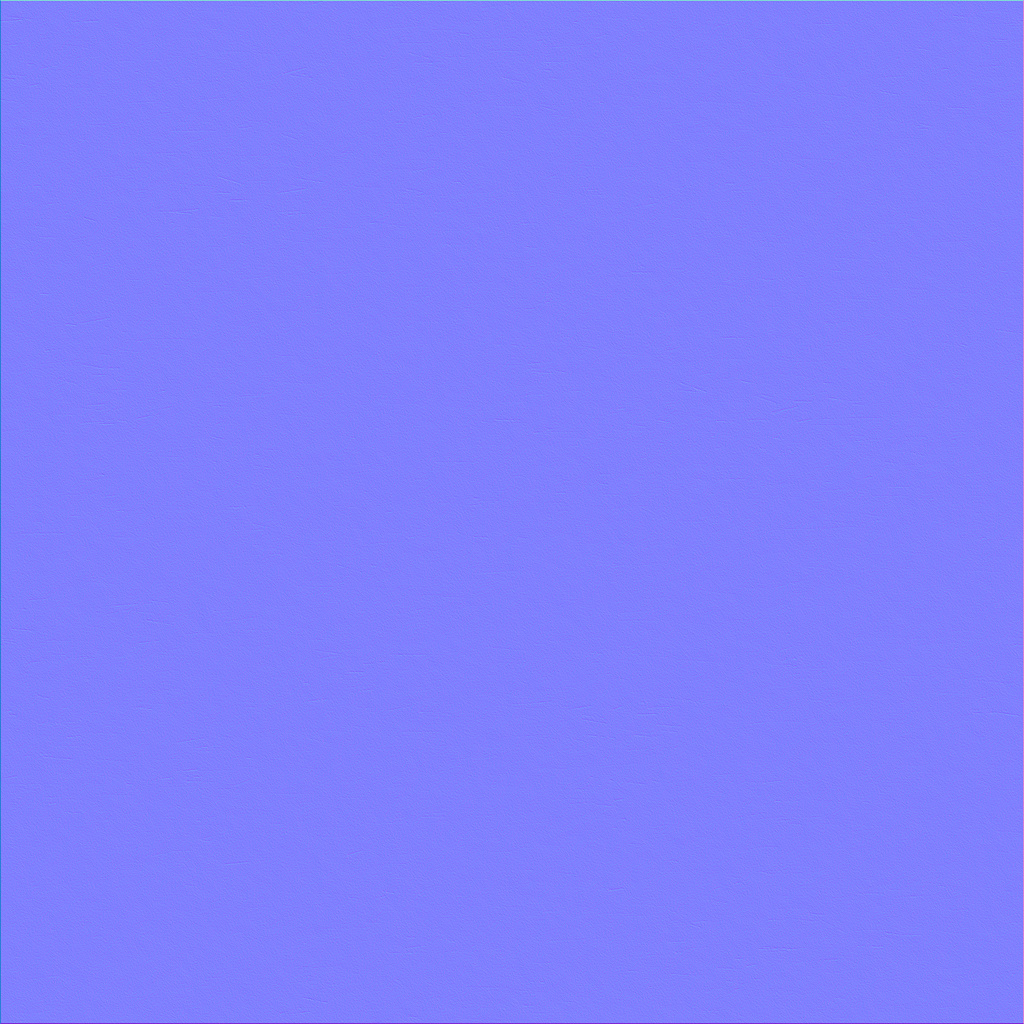
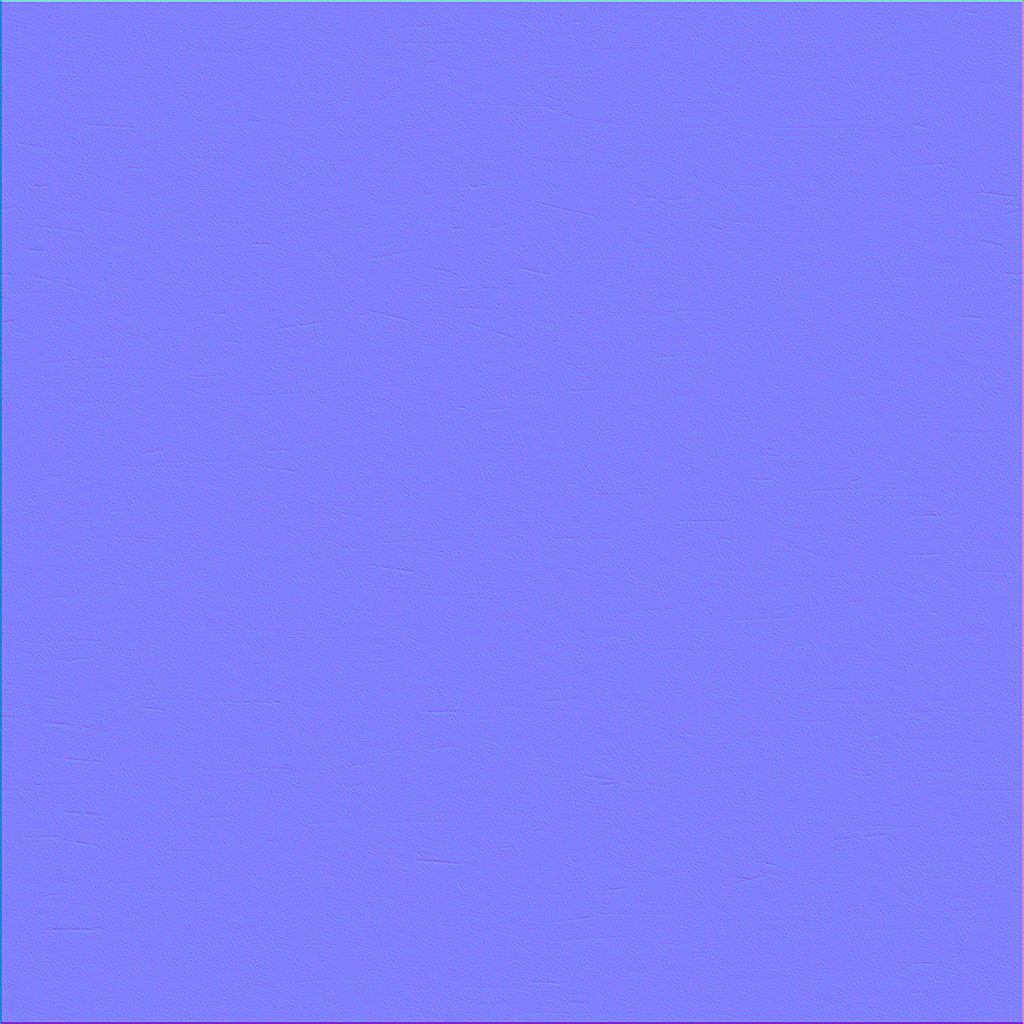
stadium: the decks' plate in 16 m tiles as TMNF's (M11-2)
TMNF tiles its deck plate every 16 m (UVs 0-2 over a block, a dark seam at
the texture's edge): a seam across each block's middle both ways. Ours tiled
32 m. The plate redrawn as a 16 m tile.

Claude-Session: https://claude.ai/code/session_01CoCjs3F2Nw6StPmuE9yD2C

diff --git a/stadium/tools/texgen/decks.py b/stadium/tools/texgen/decks.py
@@ -37,8 +37,9 @@ def lines(w, h, seed, count, lmin, lmax, angle_sd, width=1, ss=2):
     return np.asarray(img, np.float32) / 255.0
 
 
-def platform_plate(name='platform_plate', ppm=64, size_m=32.0, seed=251, base=(170, 169, 166)):
-    """The decks' steel plate over one block (32 m; world-mapped, so its edge is the blocks' seam):
+def platform_plate(name='platform_plate', ppm=64, size_m=16.0, seed=251, base=(170, 169, 166)):
+    """The decks' steel plate, a tile 16 m square as TMNF's (world-mapped, so its edges are the
+    blocks' seams and a seam across each block's middle both ways):
     light grey with soft mottling, rubber smears and scratches along x (TMNF's deck reads like a
     worn floor that cars slide across), a few dark spots, the seam a fine groove with a bright lip."""
     w = h = int(size_m * ppm)
@@ -48,8 +49,10 @@ def platform_plate(name='platform_plate', ppm=64, size_m=32.0, seed=251, base=(1
     fine = fbm(w, h, seed + 2, beta=0.5, lo=200.0)
     # smears: noise stretched along x, kept where it is strong
     smear = smoothstep(0.9, 2.4, blur_xy(fbm(w, h, seed + 3, beta=1.2, lo=6.0), 60.0, 3.0) * 4.0)
-    scratch = lines(w, h, seed + 4, 900, 10.0, 90.0, 0.06)
-    scratch_dark = lines(w, h, seed + 5, 1400, 4.0, 60.0, 0.15, width=2) * smoothstep(0.0, 1.2, fbm(w, h, seed + 6, beta=2.2, lo=2.0))
+    # (as many per m2 as over the old 32 m tile)
+    k = (size_m / 32.0) ** 2
+    scratch = lines(w, h, seed + 4, int(900 * k), 10.0, 90.0, 0.06)
+    scratch_dark = lines(w, h, seed + 5, int(1400 * k), 4.0, 60.0, 0.15, width=2) * smoothstep(0.0, 1.2, fbm(w, h, seed + 6, beta=2.2, lo=2.0))
     spots = blur(speckles(w, h, seed + 7, 0.000005, 2.0, 5.0), 1.5)
     # the seam on the block's edge (the texture's edge, both axes)
     du = np.minimum(xx, w - 1 - xx) / ppm

diff --git a/docs/PROGRESS.md b/docs/PROGRESS.md
@@ -2882,4 +2882,9 @@ on every real contact the full impulse would land at the contact point and kick 
   light rails, a perforated grating, a wide rail, two bands of slotted teeth 16 px apart. Redrawn
   so (ours), and the panel band (the curbs' tops) gets TMNF's dark frame and its shading into
   the rail.
+- (M11-2) **The decks' plate in 16 m tiles as TMNF's** (`texgen/decks.py platform_plate`,
+  `TmMaterials` "platform"; every platform and circuit deck). TMNF tiles its deck plate every 16 m
+  (UVs 0-2 over a block, a dark seam at the texture's edge), so each block shows a seam across its
+  middle both ways; ours tiled 32 m (seams only at the block edges). The plate is redrawn as a
+  16 m tile (the same scratches and smears per m2).
 

diff --git a/docs/HANDOFF.md b/docs/HANDOFF.md
@@ -51,7 +51,7 @@
   billboard walls (banner cushions), the camera pubs' ends and roof strips, the road pubs' boards (ads outward only), the
   platform lip's atlas rows (and the ramp piece's orange bevel), the gate arches' top and underside
   (TMNF's atlas strips), the sculptures' curb tops, the circuit walls' bumpers (atlas rows, outline), the road keel's plates,
-  the border atlas' rail rows (structure as TMNF's).
+  the border atlas' rail rows (structure as TMNF's), the decks' 16 m plate tiles.
   Side-by-side renders:
   `tests/block_view.tscn` (one shape; `--ref=<local ref dir>` shows TMNF's own look); numbers:
   `tests/block_dump.tscn` + `material_check.py --shape=<family> --detail` (it can't tell
